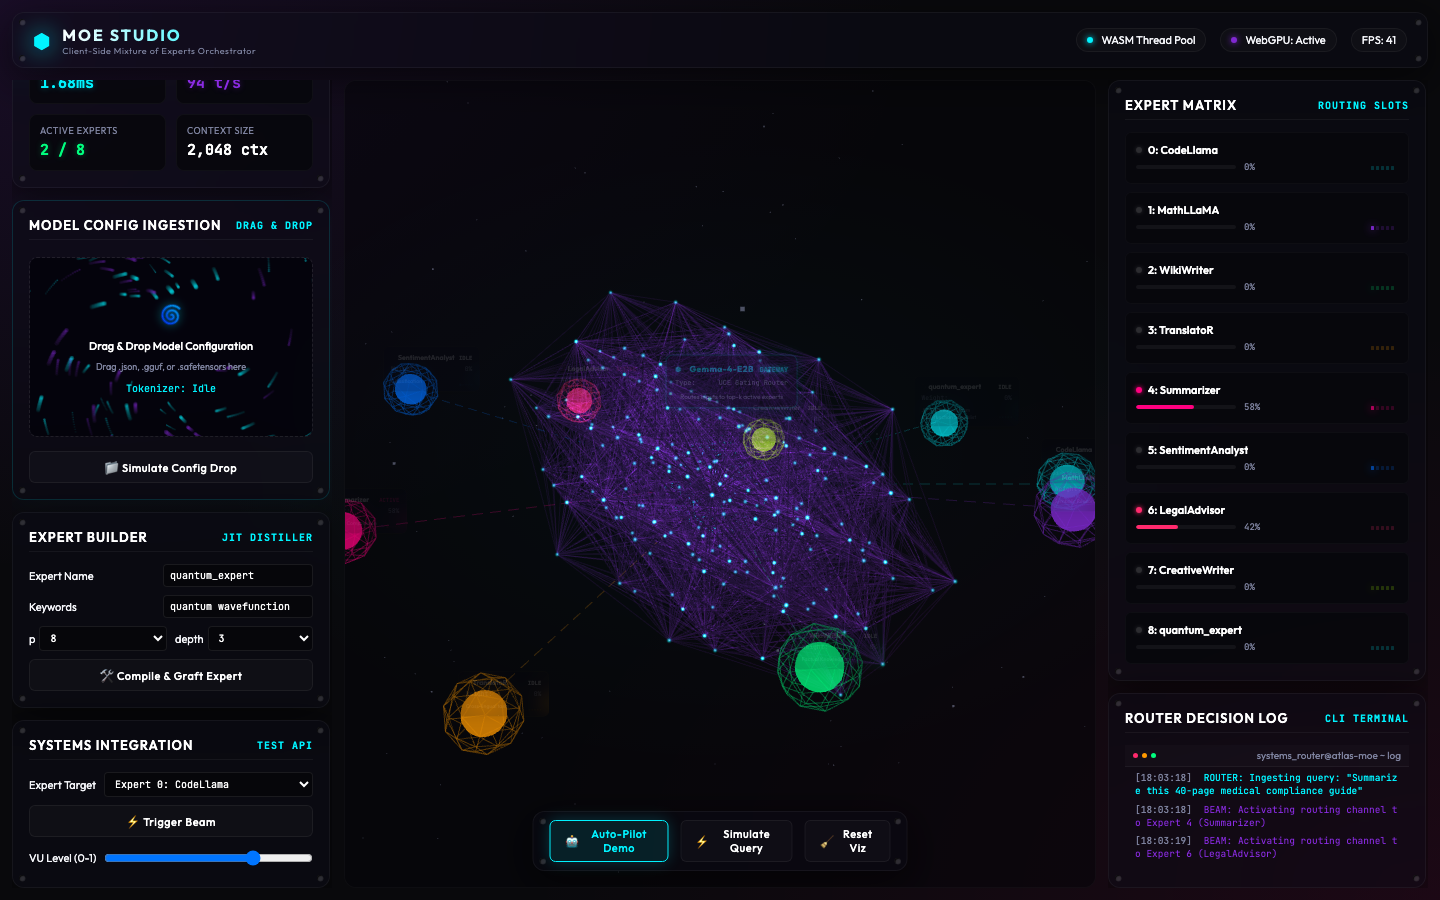
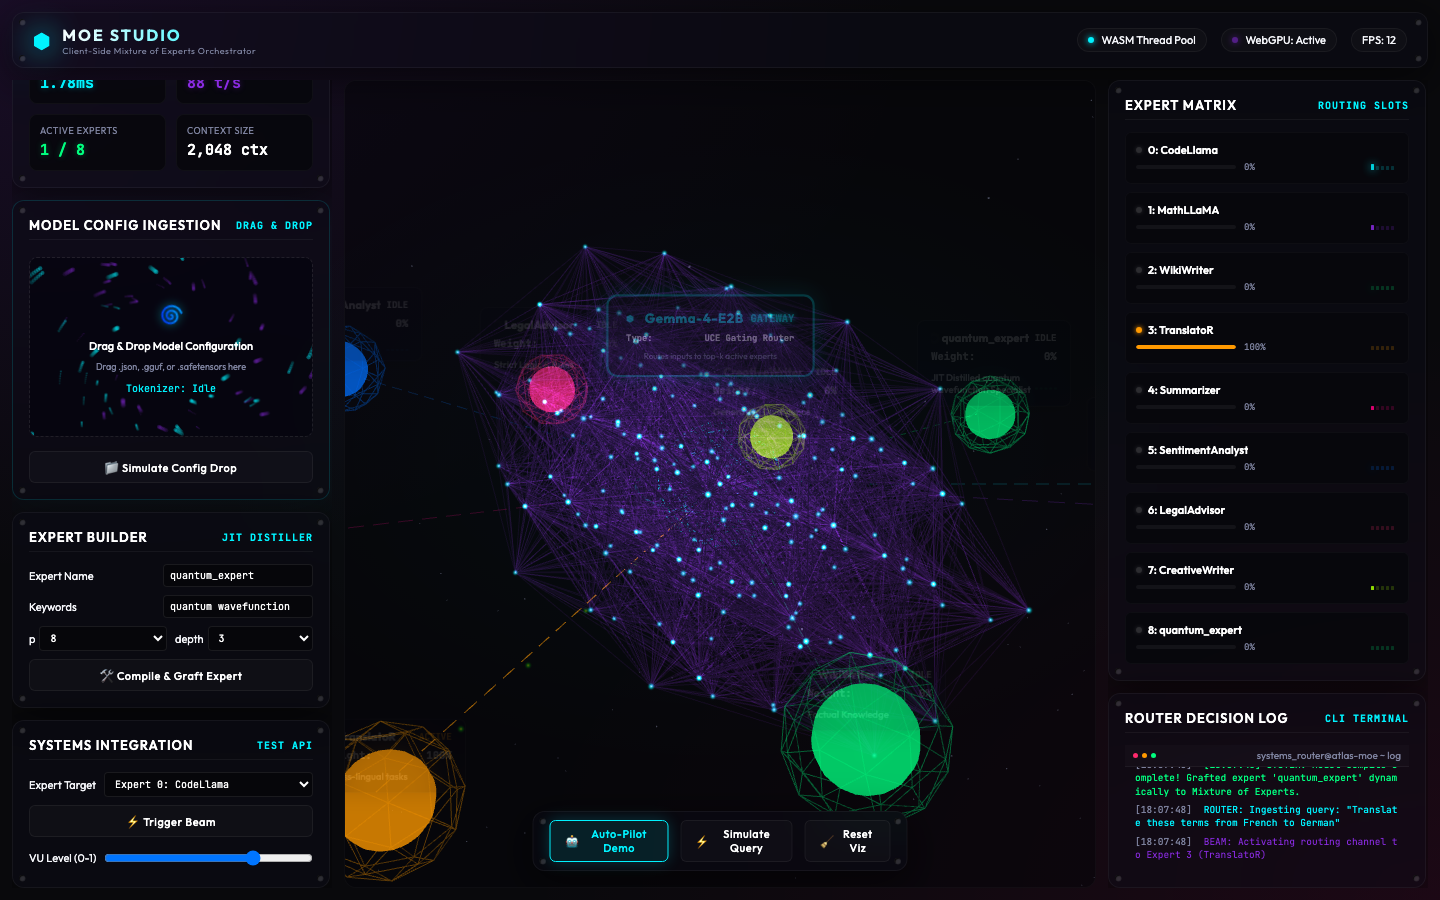
style(moe-studio): zoom camera, increase expert sphere sizes, and scale up floating card labels for enhanced legibility

diff --git a/docs/assets/css/designer.css b/docs/assets/css/designer.css
@@ -392,34 +392,35 @@ body {
     pointer-events: none; /* Allow orbital navigation underneath */
     display: flex;
     flex-direction: column;
-    padding: 8px 10px;
+    padding: 10px 14px;
     border-radius: 8px;
-    background: rgba(6, 6, 12, 0.85);
-    backdrop-filter: blur(10px);
-    -webkit-backdrop-filter: blur(10px);
-    border: 1px solid rgba(255, 255, 255, 0.06);
-    box-shadow: 0 4px 15px rgba(0, 0, 0, 0.7);
-    min-width: 130px;
-    gap: 4px;
+    background: rgba(8, 8, 16, 0.94); /* More opaque background for legibility */
+    backdrop-filter: blur(12px);
+    -webkit-backdrop-filter: blur(12px);
+    border: 1px solid rgba(255, 255, 255, 0.12); /* Brighter border */
+    box-shadow: 0 6px 20px rgba(0, 0, 0, 0.8);
+    min-width: 160px; /* Wider */
+    gap: 5px;
     z-index: 100;
     opacity: 0;
     transition: scale 0.1s ease;
 }
 
 .gateway-floating-card {
-    min-width: 155px;
-    border: 1.5px solid rgba(0, 243, 255, 0.45);
-    background: rgba(8, 8, 18, 0.92);
-    box-shadow: 0 0 15px rgba(0, 243, 255, 0.25), 0 4px 20px rgba(0, 0, 0, 0.85);
-    border-radius: 8px;
+    min-width: 180px; /* Wider */
+    padding: 12px 16px;
+    border: 2px solid rgba(0, 243, 255, 0.65); /* Stronger neon cyan border */
+    background: rgba(10, 10, 20, 0.96);
+    box-shadow: 0 0 20px rgba(0, 243, 255, 0.35), 0 6px 25px rgba(0, 0, 0, 0.9);
+    border-radius: 10px;
 }
 
 .floating-card-header {
     display: flex;
     align-items: center;
     justify-content: space-between;
-    font-size: 10px;
-    font-weight: 600;
+    font-size: 12px; /* Bigger */
+    font-weight: 700; /* Bolder */
     color: #ffffff;
     gap: 6px;
 }
@@ -434,22 +435,24 @@ body {
 }
 
 .floating-card-dot {
-    width: 5px;
-    height: 5px;
+    width: 6px; /* Bigger status dot */
+    height: 6px;
     border-radius: 50%;
     box-shadow: 0 0 6px currentColor;
 }
 
 .floating-card-status {
     font-family: var(--font-mono);
-    font-size: 8px;
+    font-size: 9.5px; /* Bigger */
     text-transform: uppercase;
+    font-weight: 700;
 }
 
 .floating-card-weight {
     font-family: var(--font-mono);
-    font-size: 9px;
-    color: var(--text-muted);
+    font-size: 11px; /* Bigger */
+    font-weight: 600;
+    color: #ffffff; /* Brighter */
     display: flex;
     justify-content: space-between;
 }

diff --git a/docs/moe_designer.html b/docs/moe_designer.html
@@ -545,14 +545,14 @@
                         <span>Weight:</span>
                         <span id="float-weight-val-${exp.id}">0%</span>
                     </div>
-                    <div style="display:flex; justify-content:space-between; align-items:center; margin-top:2px;">
-                        <span style="font-size:7.5px; color:var(--text-muted);">${exp.description}</span>
+                    <div style="display:flex; justify-content:space-between; align-items:center; margin-top:4px;">
+                        <span style="font-size:10px; color:var(--text-white); font-weight:500;">${exp.description}</span>
                         <div class="mini-vu-container" id="vu-meter-float-${exp.id}" style="color: ${exp.color};">
-                            <div class="vu-bar" style="width:2px; height:15%;"></div>
-                            <div class="vu-bar" style="width:2px; height:15%;"></div>
-                            <div class="vu-bar" style="width:2px; height:15%;"></div>
-                            <div class="vu-bar" style="width:2px; height:15%;"></div>
-                            <div class="vu-bar" style="width:2px; height:15%;"></div>
+                            <div class="vu-bar" style="width:3px; height:15%;"></div>
+                            <div class="vu-bar" style="width:3px; height:15%;"></div>
+                            <div class="vu-bar" style="width:3px; height:15%;"></div>
+                            <div class="vu-bar" style="width:3px; height:15%;"></div>
+                            <div class="vu-bar" style="width:3px; height:15%;"></div>
                         </div>
                     </div>
                 `;
@@ -571,7 +571,7 @@
         
         // Camera
         const camera = new THREE.PerspectiveCamera(45, sceneContainer.clientWidth / sceneContainer.clientHeight, 0.1, 100);
-        camera.position.set(0, 8, 22);
+        camera.position.set(0, 6, 17.5);
         
         // Renderer
         const renderer = new THREE.WebGLRenderer({ canvas: canvas, antialias: true, alpha: true });
@@ -794,8 +794,8 @@
             expGroup.position.copy(pos);
             scene.add(expGroup);
             
-            // Core sphere
-            const sphereGeom = new THREE.SphereGeometry(0.4, 16, 16);
+            // Core sphere (increased from 0.4 to 0.6)
+            const sphereGeom = new THREE.SphereGeometry(0.6, 16, 16);
             const sphereMat = new THREE.MeshBasicMaterial({
                 color: data.colorHex,
                 transparent: true,
@@ -804,8 +804,8 @@
             const mesh = new THREE.Mesh(sphereGeom, sphereMat);
             expGroup.add(mesh);
             
-            // Outer wireframe shell
-            const shellGeom = new THREE.IcosahedronGeometry(0.7, 1);
+            // Outer wireframe shell (increased from 0.7 to 0.95)
+            const shellGeom = new THREE.IcosahedronGeometry(0.95, 1);
             const shellMat = new THREE.MeshBasicMaterial({
                 color: data.colorHex,
                 wireframe: true,
@@ -1009,7 +1009,7 @@
                     gCard.style.transform = `translate(-50%, -100%) translateY(-10px)`;
                     gCard.style.zIndex = 1001; // Keep gateway card above expert cards
                     
-                    const scale = Math.max(0.85, 1.15 - tempProj.z * 0.35);
+                    const scale = Math.max(1.1, 1.45 - tempProj.z * 0.35);
                     gCard.style.scale = scale;
                     
                     const opacity = Math.max(0.3, Math.min(1.0, 1.5 - tempProj.z * 1.2));
@@ -1047,7 +1047,7 @@
                 const zIndex = Math.round((1 - tempProj.z) * 1000);
                 card.style.zIndex = zIndex;
                 
-                const scale = Math.max(0.7, 1 - tempProj.z * 0.4);
+                const scale = Math.max(0.95, 1.3 - tempProj.z * 0.35);
                 card.style.scale = scale;
                 
                 // Fade out cards that are too far back
@@ -1285,8 +1285,8 @@
             expGroup.position.copy(pos);
             scene.add(expGroup);
             
-            // Core sphere
-            const sphereGeom = new THREE.SphereGeometry(0.4, 16, 16);
+            // Core sphere (increased from 0.4 to 0.6)
+            const sphereGeom = new THREE.SphereGeometry(0.6, 16, 16);
             const sphereMat = new THREE.MeshBasicMaterial({
                 color: colorHex,
                 transparent: true,
@@ -1295,8 +1295,8 @@
             const mesh = new THREE.Mesh(sphereGeom, sphereMat);
             expGroup.add(mesh);
             
-            // Outer wireframe shell
-            const shellGeom = new THREE.IcosahedronGeometry(0.7, 1);
+            // Outer wireframe shell (increased from 0.7 to 0.95)
+            const shellGeom = new THREE.IcosahedronGeometry(0.95, 1);
             const shellMat = new THREE.MeshBasicMaterial({
                 color: colorHex,
                 wireframe: true,